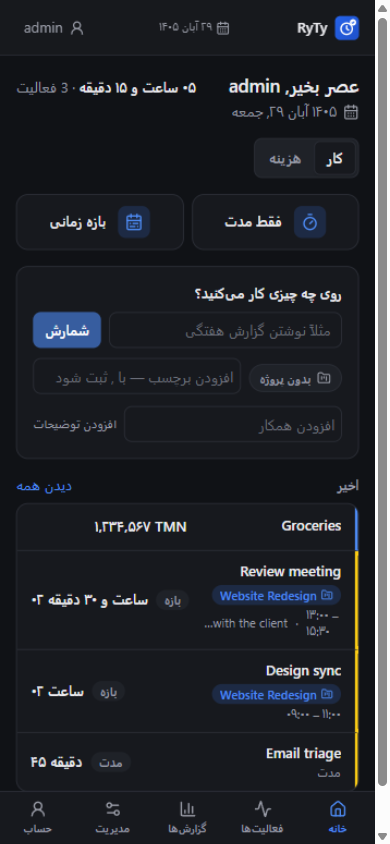
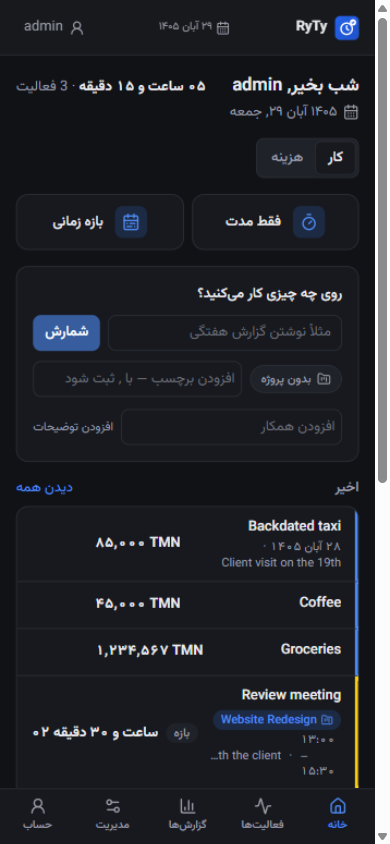
fix(home): Recent always shows the latest 20 tasks/expenses (drop today-first), dates on past-day rows; fix(activities): day groups ordered newest-first regardless of record time; docs: refresh screenshots

diff --git a/frontend/src/pages/DashboardPage.tsx b/frontend/src/pages/DashboardPage.tsx
@@ -23,7 +23,7 @@ const RECENT_LIMIT = 20;
 
 /**
  * Home screen: quick activity entry first. Manual-entry modes lead, the
- * timer input follows, and a single mixed "Recent" timeline (today's
+ * timer input follows, and a single mixed "Recent" timeline (the latest
  * tasks and expenses) supports both entry tabs. Nothing else competes.
  */
 export function DashboardPage() {
@@ -47,7 +47,6 @@ export function DashboardPage() {
 
   const [today, setToday] = useState<{ totalSeconds: number; count: number } | null>(null);
   const [recent, setRecent] = useState<RecentItem[]>([]);
-  const [recentFromPast, setRecentFromPast] = useState(false);
   const [manualOpen, setManualOpen] = useState(false);
   const [initialMode, setInitialMode] = useState<"range" | "duration">("range");
   const [expenseEditRequest, setExpenseEditRequest] = useState<Expense | null>(null);
@@ -66,28 +65,17 @@ export function DashboardPage() {
 
   const loadRecent = useCallback(async () => {
     try {
-      const date = todayIn(timezone);
+      // The latest entries of both kinds, regardless of their day — rows
+      // from earlier days carry their date in the list.
       const [acts, exps] = await Promise.all([
-        api.listActivities({ page: 1, pageSize: RECENT_LIMIT, from: date, to: date }),
-        api.listExpenses({ page: 1, pageSize: RECENT_LIMIT, from: date, to: date }),
+        api.listActivities({ page: 1, pageSize: RECENT_LIMIT }),
+        api.listExpenses({ page: 1, pageSize: RECENT_LIMIT }),
       ]);
-      let items = mergeRecent(acts.data, exps.data);
-      let fromPast = false;
-      // Nothing recorded today → fall back to the latest entries, any day.
-      if (items.length === 0) {
-        const [latestActs, latestExps] = await Promise.all([
-          api.listActivities({ page: 1, pageSize: RECENT_LIMIT }),
-          api.listExpenses({ page: 1, pageSize: RECENT_LIMIT }),
-        ]);
-        items = mergeRecent(latestActs.data, latestExps.data);
-        fromPast = true;
-      }
-      setRecent(items.slice(0, RECENT_LIMIT));
-      setRecentFromPast(fromPast);
+      setRecent(mergeRecent(acts.data, exps.data).slice(0, RECENT_LIMIT));
     } catch {
       // the recent list is non-critical
     }
-  }, [timezone]);
+  }, []);
 
   useEffect(() => {
     void loadSummary();
@@ -355,8 +343,8 @@ export function DashboardPage() {
         </>
       )}
 
-      {/* Recent: today's tasks and expenses, identical on both entry tabs.
-          Falls back to the latest entries when nothing was recorded today. */}
+      {/* Recent: the latest tasks and expenses, identical on both entry tabs.
+          Rows from earlier days carry their date. */}
       <section>
         <div className="mb-2 flex items-center justify-between">
           <h2 className="text-sm font-semibold text-muted">{t("dashboard.recent")}</h2>
@@ -367,7 +355,6 @@ export function DashboardPage() {
         <RecentList
           items={recent}
           timezone={timezone}
-          showDates={recentFromPast}
           onEditExpense={(expense) => {
             setEntryTab("expense");
             setExpenseEditRequest(expense);

diff --git a/frontend/src/components/RecentList.tsx b/frontend/src/components/RecentList.tsx
@@ -6,24 +6,23 @@ import { useToast } from "../stores/ToastContext";
 import { Card, ConfirmDialog, EmptyState } from "./ui";
 import { ActivityRow } from "./ActivityRow";
 import { ExpenseRow } from "./ExpenseRow";
+import { todayIn } from "../utils/format";
 import type { RecentItem } from "../utils/recent";
 
 /**
- * The Home "Recent" timeline: tasks and expenses in one list. The 3px
- * inline-start edge tells the two apart at a glance — task yellow, expense
- * blue — without extra badges or labels.
+ * The Home "Recent" timeline: the latest tasks and expenses in one list.
+ * The 3px inline-start edge tells the two apart at a glance — task yellow,
+ * expense blue — without extra badges or labels; rows from earlier days
+ * carry their date.
  */
 export function RecentList({
   items,
   timezone,
-  showDates = false,
   onEditExpense,
   onChanged,
 }: {
   items: RecentItem[];
   timezone: string;
-  /** Show each row's local day (set when the list falls back to past days). */
-  showDates?: boolean;
   /** Present when the parent can open the expense form for editing. */
   onEditExpense?: (expense: Expense) => void;
   /** Called after an expense row was deleted so the parent can refresh. */
@@ -31,6 +30,7 @@ export function RecentList({
 }) {
   const { t } = useTranslation();
   const { toast } = useToast();
+  const today = todayIn(timezone);
   const [deleting, setDeleting] = useState<Expense | null>(null);
   const [deleteLoading, setDeleteLoading] = useState(false);
 
@@ -62,14 +62,14 @@ export function RecentList({
               key={`a-${item.activity.id}`}
               activity={item.activity}
               timezone={timezone}
-              showDate={showDates}
+              showDate={item.activity.occurredOn !== today}
               className="border-s-[3px] border-s-task"
             />
           ) : (
             <ExpenseRow
               key={`e-${item.expense.id}`}
               expense={item.expense}
-              showDate={showDates}
+              showDate={item.expense.occurredOn !== today}
               className="border-s-[3px] border-s-expense"
               onEdit={onEditExpense ? () => onEditExpense(item.expense) : undefined}
               onDelete={() => setDeleting(item.expense)}

diff --git a/frontend/src/pages/ActivitiesPage.tsx b/frontend/src/pages/ActivitiesPage.tsx
@@ -145,7 +145,9 @@ export function ActivitiesPage() {
       list.push(item);
       groups.set(date, list);
     }
-    return [...groups.entries()];
+    // Day groups always run newest → oldest, regardless of record time: an
+    // expense recorded today for yesterday must not drag its day above Today.
+    return [...groups.entries()].sort(([a], [b]) => (a < b ? 1 : a > b ? -1 : 0));
   }, [activities, expenses]);
 
   const hasMore = activities.length < activitiesTotal || expenses.length < expensesTotal;

diff --git a/PROJECT-SPECIFICATION.md b/PROJECT-SPECIFICATION.md
@@ -56,7 +56,9 @@ the same visibility rules as activities (admins / `all_users` see the team;
 everyone else sees only their own). Only the owner can edit or delete an
 expense. Expenses also appear in the shared **Activities** history list —
 grouped by day next to tasks, marked by a blue start edge (tasks yellow) —
-and can be added from that page's entry dialog via its Expense tab.
+and can be added from that page's entry dialog via its Expense tab. Day
+groups always run newest → oldest regardless of when a record was created
+(an expense recorded today for yesterday stays in yesterday's group).
 
 ### 2.4 Projects & tags
 
@@ -186,9 +188,9 @@ reusable later via account settings.
   option, today's total, active-timer indication. The entry area is two tabs
   — **Task** and **Expense**. On the Task tab, two large icon-led mode
   buttons (**Duration only** / **Time range**) sit above the timer. Below
-  the entry area, a single mixed **Recent** timeline shows today's tasks and
-  expenses on both tabs (falls back to the latest 20 entries, dated, when
-  nothing was recorded today); each row carries a colored start edge —
+  the entry area, a single mixed **Recent** timeline shows the latest 20
+  tasks and expenses on both tabs — newest records first, rows from earlier
+  days carrying their date; each row carries a colored start edge —
   yellow for tasks, blue for expenses. No big charts, admin widgets, or
   card grids.
 - **Progressive disclosure**: reports, admin, settings in secondary
